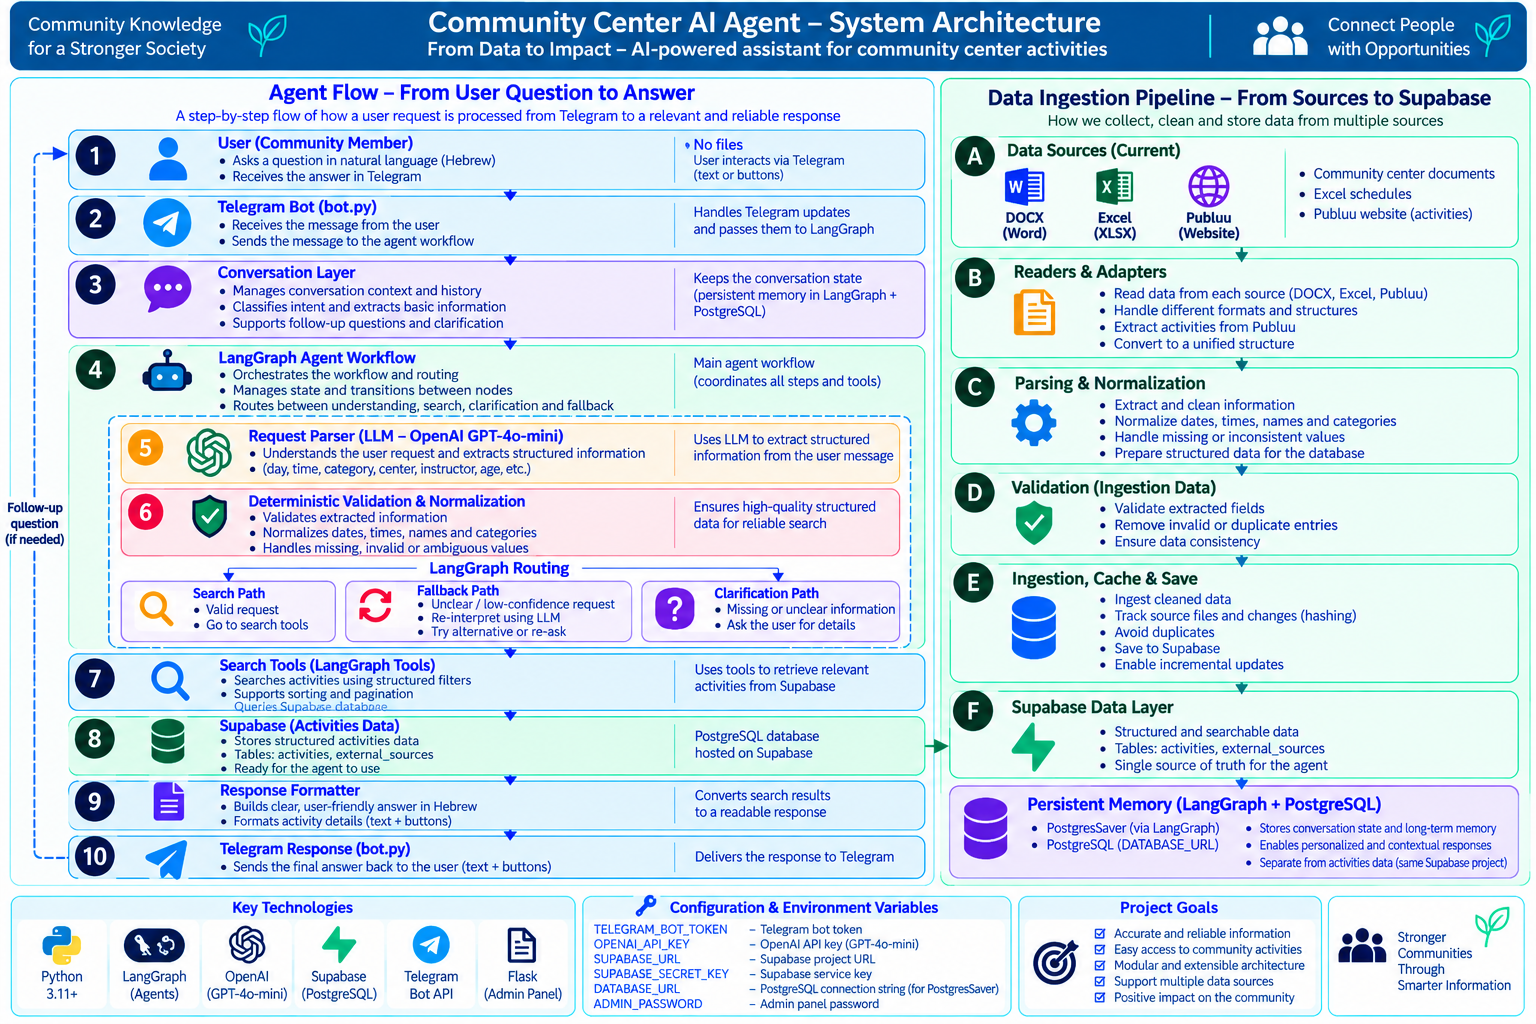
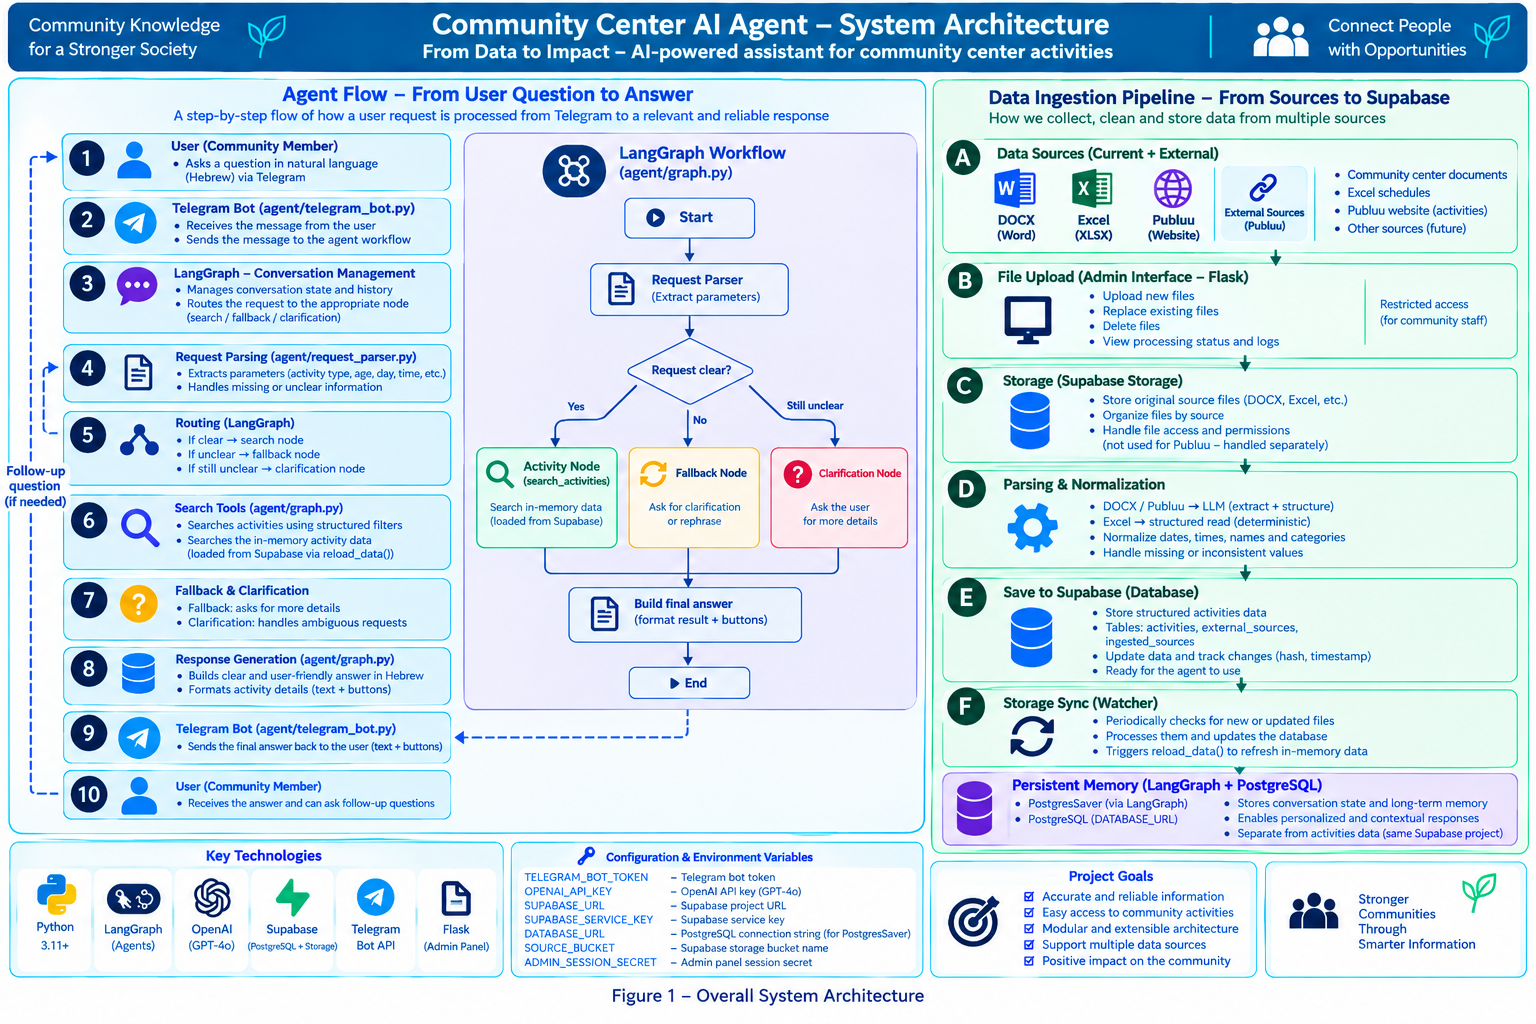
Update documentation and architecture images

diff --git a/README.md b/README.md
@@ -944,7 +944,9 @@ community-center-ai-agent/
 
 │   ├── langgraph_flow.png
 
-│   └── system_map.png
+│   ├── user_question_processing_architecture.png
+
+│   └── data_ingestion_architecture.png
 
 │
 
